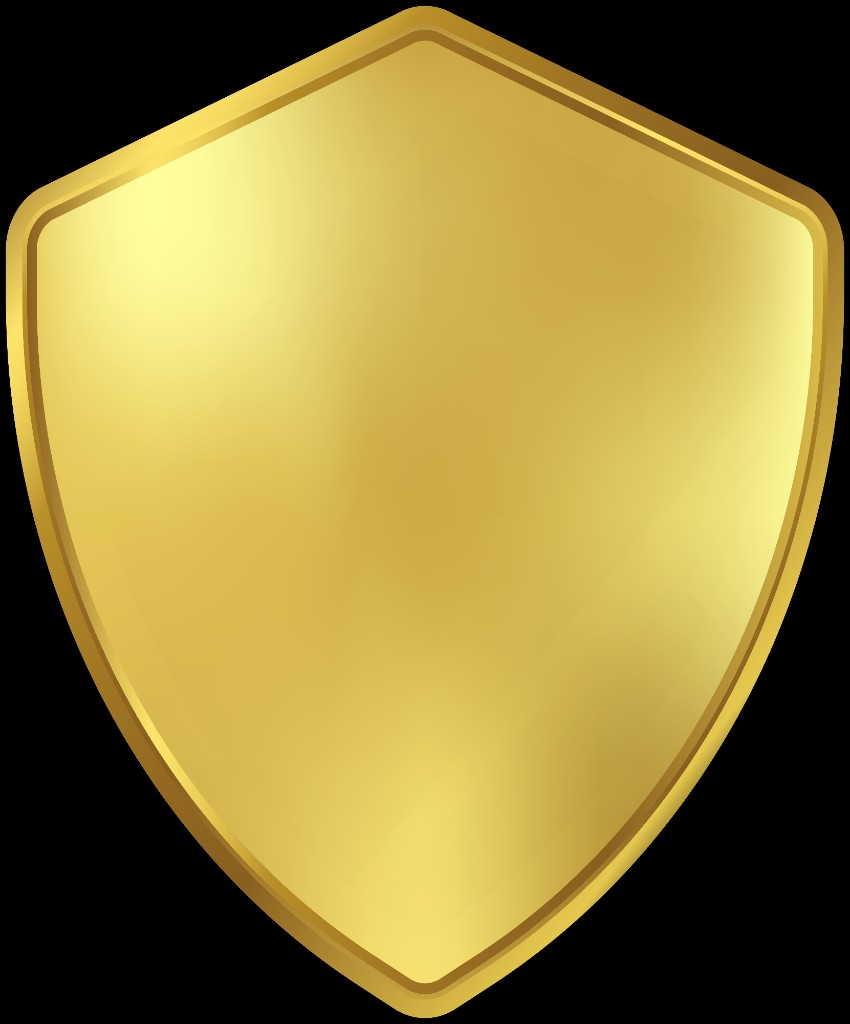
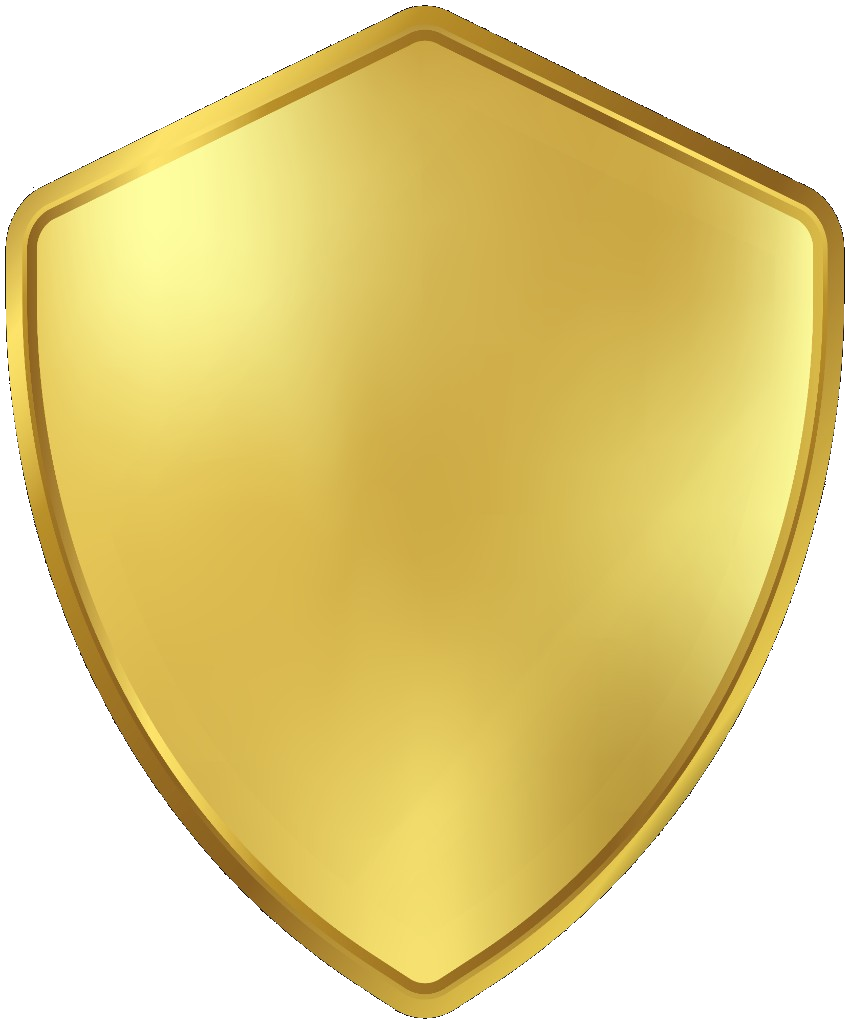
Make topic cards a level-shield brag board kids can read at a glance.
Swap the ★ XP meter for L1–L6 shields, strip the badge’s black background, cover the confusing card lights, and update How to Play to match.

diff --git a/css/topic-campaign-cards.css b/css/topic-campaign-cards.css
@@ -95,10 +95,32 @@ body.mission-mode #screen-home .mission-all-topics .gb-topic-campaign-card .gb-s
   position: relative;
 }
 
+/* Baked into every topic PNG: three green “status” lights on the bottom lip.
+   Cover them with a metal patch in % units so it scales on fullscreen. */
+body.mission-mode #screen-home .mission-all-topics .gb-topic-campaign-card .gb-story-art::before {
+  content: '';
+  position: absolute;
+  left: 50%;
+  bottom: 2.4%;
+  z-index: 2;
+  width: 22%;
+  height: 4.2%;
+  transform: translateX(-50%);
+  border-radius: 2px;
+  background:
+    linear-gradient(180deg, #3a3e42 0%, #23262a 45%, #181a1c 100%);
+  box-shadow:
+    inset 0 1px 0 rgba(255, 255, 255, 0.12),
+    inset 0 -1px 0 rgba(0, 0, 0, 0.55),
+    0 0 0 1px rgba(0, 0, 0, 0.35);
+  pointer-events: none;
+}
+
 body.mission-mode #screen-home .mission-all-topics .gb-topic-campaign-card .gb-story-art::after {
   content: '';
   position: absolute;
   inset: 0;
+  z-index: 1;
   background: linear-gradient(115deg, transparent 35%, rgba(255, 255, 255, .55) 48%, rgba(200, 255, 150, .25) 52%, transparent 65%) no-repeat;
   background-size: 250% 100%;
   background-position: 140% 0;
@@ -115,12 +137,6 @@ body.mission-mode #screen-home .mission-all-topics .gb-topic-campaign-card:not(:
 @keyframes topic-shine {
   0% { opacity: 1; background-position: 140% 0; }
   100% { opacity: 1; background-position: -40% 0; }
-}
-
-body.mission-mode #screen-home .mission-all-topics .gb-topic-campaign-card:not(:disabled):hover .gb-topic-rank,
-body.mission-mode #screen-home .mission-all-topics .gb-topic-campaign-card:not(:disabled):hover .gb-topic-next {
-  color: #eaffd0;
-  text-shadow: 0 0 6px rgba(120, 255, 70, .7);
 }
 
 body.mission-mode #screen-home .mission-all-topics .gb-topic-campaign-card:focus-visible {
@@ -177,113 +193,32 @@ body.mission-mode #screen-home .mission-all-topics .gb-topic-campaign-card .gb-s
   text-shadow: 0 2px 5px #000;
 }
 
-/* Rank, mastery and next XP: one compact row on the black surface, outside the art. */
-body.mission-mode #screen-home .mission-all-topics .gb-topic-campaign-card .gb-topic-campaign-line {
+/* Brag board: six level shields. Soft path = light up L1; flex = fill through L6. */
+body.mission-mode #screen-home .mission-all-topics .gb-topic-campaign-card .gb-topic-shields {
   display: flex;
   position: static;
   width: 100%;
   min-width: 0;
-  height: 26px;
+  height: 28px;
   justify-content: center;
   align-items: center;
-  gap: 6px;
-  padding: 0 5px;
-  background: transparent;
-  white-space: nowrap;
+  gap: 3px;
+  padding: 0 4px 2px;
   pointer-events: none;
 }
 
-/* Rank is hidden at rank 1, then becomes a gold star pill once the topic ranks up. */
-body.mission-mode #screen-home .mission-all-topics .gb-topic-campaign-line[data-rank="1"] .gb-topic-rank {
-  display: none;
+body.mission-mode #screen-home .mission-all-topics .gb-topic-campaign-card .gb-level-shield {
+  width: 20px;
+  height: 24px;
 }
 
-body.mission-mode #screen-home .mission-all-topics .gb-topic-rank {
-  padding: 3px 11px 3px 9px;
-  border: 1px solid #ffe9a8;
-  border-radius: 999px;
-  background: linear-gradient(180deg, #ffd65a, #e09a12);
-  color: #2a1700;
-  font-size: .95rem;
-  font-weight: 800;
-  line-height: 1;
-  box-shadow: 0 0 12px rgba(255, 200, 60, .65), 0 2px 0 #7a4a00;
+body.mission-mode #screen-home .mission-all-topics .gb-topic-campaign-card .gb-level-shield-num {
+  font-size: 0.58rem;
+  padding-top: 1px;
 }
 
-body.mission-mode #screen-home .mission-all-topics .gb-topic-rank strong {
-  color: #2a1700;
-  font-weight: 900;
-  font-variant-numeric: tabular-nums;
-}
-
-body.mission-mode #screen-home .mission-all-topics .gb-topic-mastery {
-  color: #ffe092;
-  font-size: .7rem;
-  font-weight: 800;
-}
-
-/* XP to the next rank only shows on hover or keyboard focus. */
-body.mission-mode #screen-home .mission-all-topics .gb-topic-next {
-  display: none;
-  color: #ded8c7;
-  font-size: clamp(.5rem, .56vw, .65rem);
-  font-weight: 700;
-  font-variant-numeric: tabular-nums;
-}
-
-body.mission-mode #screen-home .mission-all-topics .gb-topic-campaign-card:not(:disabled):hover .gb-topic-next,
-body.mission-mode #screen-home .mission-all-topics .gb-topic-campaign-card:focus-visible .gb-topic-next {
-  display: inline;
-}
-
-body.mission-mode #screen-home .mission-all-topics .gb-topic-rank-track {
-  display: block;
-  width: 100%;
-  height: 2px;
-  margin-bottom: 1px;
-  background: rgba(120, 70, 190, .28);
-  pointer-events: none;
-}
-
-body.mission-mode #screen-home .mission-all-topics .gb-topic-rank-fill {
-  display: block;
-  height: 100%;
-  border-radius: inherit;
-  background: linear-gradient(90deg, #8a3cff, #d14bff 45%, #ff8a1f);
-  box-shadow: 0 0 6px rgba(255, 120, 40, .7), 0 0 10px rgba(170, 70, 255, .45);
-  transition: width .3s ease;
-}
-
-/* The prize: an alien crystal waits at the end of every topic's XP bar, and pulses when close. */
-body.mission-mode #screen-home .mission-all-topics .gb-topic-rank-track {
-  position: relative;
-  height: 4px;
-  border-radius: 2px;
-  overflow: visible;
-}
-
-body.mission-mode #screen-home .mission-all-topics .gb-topic-prize {
-  position: absolute;
-  right: -6px;
-  top: 50%;
-  display: grid;
-  place-items: center;
-  transform: translateY(-50%);
-}
-
-body.mission-mode #screen-home .mission-all-topics .gb-topic-prize .core-gem {
-  --gem-size: 18px;
-  filter: drop-shadow(0 0 3px rgba(80, 255, 170, .7)) grayscale(.35) brightness(.8);
-}
-
-body.mission-mode #screen-home .mission-all-topics .gb-topic-prize.is-close .core-gem {
-  filter: drop-shadow(0 0 8px rgba(120, 255, 190, 1));
-  animation: prize-pulse 1.1s ease-in-out infinite;
-}
-
-@keyframes prize-pulse {
-  0%, 100% { transform: scale(1); }
-  50% { transform: scale(1.35) rotate(8deg); }
+body.mission-mode #screen-home .mission-all-topics .gb-topic-campaign-card .gb-level-shield.is-earned .gb-level-shield-img {
+  filter: drop-shadow(0 0 4px rgba(255, 200, 80, 0.75));
 }
 
 /* Today's hot topic: a flame banner across the top of the card and a warm glow. */
@@ -361,8 +296,6 @@ body.mission-mode #screen-home .mission-all-topics .gb-topic-hot {
 
 @media (prefers-reduced-motion: reduce) {
   body.mission-mode #screen-home .mission-all-topics .gb-topic-campaign-card,
-  body.mission-mode #screen-home .mission-all-topics .gb-topic-rank-fill,
-  body.mission-mode #screen-home .mission-all-topics .gb-topic-prize .core-gem,
   body.mission-mode #screen-home .mission-all-topics .gb-topic-hot {
     transition: none;
     animation: none;

diff --git a/js/home.js b/js/home.js
@@ -9,8 +9,7 @@ import {
   renderInterstellarMap, mapPiecesEarned, getMapPasses, MAP_PASSES_REQUIRED, TRAINING_MODULE_IDS, MAP_SECTORS,
   currentMapSeason, seasonLabel, seasonPiecesEarned, canWarpToDoompickle, homelandMaxLevel, seasonComplete,
 } from './map-progress.js?v=20261115h3';
-import { topicRankProgress, getTopicRecord } from './topic-progression.js?v=20261114k1';
-import { getQualifiedLevels } from './level-mastery.js?v=20261115h3';
+import { getQualifiedLevels, renderModuleLevelPips } from './level-mastery.js?v=20261116xp34';
 import { ECONOMY } from './economy.js';
 import { xpMultiplierLabel, xpMultiplierFor, DIFFICULTY, isDifficultyLevel } from './difficulty.js?v=20261114k1';
 import { renderArmoryPromo } from './armory-promo.js?v=20261113m8';
@@ -21,49 +20,42 @@ import { ENEMY_SPRITE_SRC, GRUNT_STATS, BOSS_STATS } from './enemies-data.js';
 const HOMELAND_URL = 'homeland.html';
 
 /**
- * Ten clean campaign cards. Mastery is a small permanent mark, while each
- * topic's rank and next-rank progress can grow without ever being "Done".
+ * Ten campaign cards. Brag board = level shields (L1–L6) earned with a perfect run
+ * at that difficulty. Soft path = L1 on every topic; flex = fill L2–L6. Topic ★ XP
+ * still accrues in the background but stays off the card so kids see one story.
  * @param {import('./training-gate.js?v=20261114n1').TrainingGate} gate
  * @param {ReturnType<typeof attackStatus>} attack
  * @param {import('./level-mastery.js?v=20261114k1').LevelMasterySave} levelMastery
  * @param {import('./map-progress.js').MapProgressSave} mapProgress
  * @param {string[]} selectedTopics
- * @param {import('./topic-progression.js?v=20261114k1').TopicProgressSave} topicProgress
+ * @param {import('./topic-progression.js?v=20261114k1').TopicProgressSave} [_topicProgress]
  */
-function renderTrainingCards(gate, attack, levelMastery, mapProgress, selectedTopics = MATH_TOPICS.map((t) => t.id), topicProgress = {}) {
+function renderTrainingCards(gate, attack, levelMastery, mapProgress, selectedTopics = MATH_TOPICS.map((t) => t.id), _topicProgress = {}) {
   // Respect the five-by-two screen order, never re-sort by "completion".
   return MATH_TOPICS.filter((topic) => selectedTopics.includes(topic.id))
     .sort((a, b) => selectedTopics.indexOf(a.id) - selectedTopics.indexOf(b.id))
     .map((topic) => {
       const locked = !topic.available;
-      const campaign = topicRankProgress(getTopicRecord(topicProgress, topic.id).xp);
       const qualified = getQualifiedLevels(levelMastery, topic.id);
-      const highestMastery = Math.max(0, ...qualified);
-      const masteryLabel = highestMastery ? `L${highestMastery} ✓` : '';
+      const earned = qualified.length;
       const artClass = `gb-story-art gb-story-art-${topic.id.replace(/[^a-z-]/g, '')}`;
       const hot = !locked && topic.id === hotTopicId();
-      const close = campaign.percent >= 70;
       const art = topic.moduleArt
         ? `<img class="gb-story-art-img" src="${topic.moduleArt}" alt="" width="400" height="400" loading="lazy" />`
         : `<span class="gb-story-art-emoji">${topic.emoji}</span>`;
+      const shieldNote = earned
+        ? `${earned} of 6 level shields earned`
+        : 'no level shields yet — clear a set at 100% to earn one';
       return `
         <button type="button"
           class="gb-story-card gb-topic-campaign-card${locked ? ' gb-story-locked' : ''}${hot ? ' is-hot' : ''}"
           data-topic="${topic.id}"
-          aria-label="${topic.title}${hot ? ', hot topic today, double XP' : ''}, topic rank ${campaign.rank}${highestMastery ? `, Level ${highestMastery} mastered` : ''}. ${campaign.remaining} topic XP to rank ${campaign.nextRank}."
+          aria-label="${topic.title}${hot ? ', hot topic today, double XP' : ''}, ${shieldNote}"
           ${locked ? 'disabled' : ''}>
           <span class="${artClass}" aria-hidden="true">${art}</span>
           ${hot ? '<span class="gb-topic-hot" aria-hidden="true">🔥 HOT TOPIC · 2× XP</span>' : ''}
           ${topic.moduleArt ? '' : `<span class="gb-story-title">${topic.title}</span>`}
-          <span class="gb-topic-campaign-line" data-rank="${campaign.rank}">
-            <span class="gb-topic-rank">★ <strong>${campaign.rank}</strong></span>
-            ${highestMastery ? `<span class="gb-topic-mastery" title="Level ${highestMastery} mastery earned">${masteryLabel}</span>` : ''}
-            <span class="gb-topic-next">NEXT ${campaign.remaining.toLocaleString()} XP</span>
-          </span>
-          <span class="gb-topic-rank-track" aria-hidden="true">
-            <span class="gb-topic-rank-fill" style="width:${campaign.percent}%"></span>
-            <span class="gb-topic-prize${close ? ' is-close' : ''}" title="Rank up for an alien crystal"><span class="core-gem"></span></span>
-          </span>
+          <span class="gb-topic-shields" aria-hidden="true">${renderModuleLevelPips(levelMastery, topic.id)}</span>
         </button>
       `;
     }).join('');

diff --git a/js/how-to-play.js b/js/how-to-play.js
@@ -12,9 +12,9 @@ export const HOW_TO_QUESTIONS = [
     icon: '⚔',
     q: 'How do I start a battle?',
     a: [
-      'Every right answer charges Granny’s defences. You need 20 right answers at Levels 1–2, or 30 at Levels 3–6 — the drill meter, Random Mission count, and Defend Granny button all use that same number. Press RANDOM MISSION for a mix, or tap any topic card.',
-      'Watch the radar: the horde gets closer and bigger as your charge grows. When it says CONTACT, finish your set and press the big button to defend Granny!',
-      'After the bar is full you can keep answering for bonus siege coins, scout zaps, and extra battle time — the war chest shows how much charge you have left to earn.',
+      'Every right answer charges Granny’s defences. You need 20 right answers at Levels 1–2, or 30 at Levels 3–6. Press RANDOM MISSION for a mix, or tap any topic card.',
+      'Watch the invasion strip and the radar as the horde closes in. When defences are charged, hit the red DEFEND GRANNY on the radar whenever you’re ready — you don’t have to finish the set first.',
+      'After the bar is full you can keep answering for bonus siege coins, scout zaps, and extra battle time — Zap Scouts on the war chest is optional.',
     ],
   },
   {
@@ -43,7 +43,6 @@ export const HOW_TO_QUESTIONS = [
       'Fully charge Granny’s defences.',
       'Do a Random mission AND a topic card in the same charge — MIX IT UP!',
       'Score 80% or better on a Maths Quest.',
-      'Rank up a maths topic.',
       'Defeat the first big boss alien in a battle. It drops a crystal!',
     ],
   },
@@ -96,18 +95,19 @@ export const HOW_TO_QUESTIONS = [
     a: SIEGE_RANKS.map((rank) => `${rank.name}: ${rank.hint.toLowerCase()}.`),
   },
   {
-    icon: '⭐',
-    q: 'What are the stars on the topic cards?',
+    icon: '🛡',
+    q: 'What are the shields on the topic cards?',
     a: [
-      'Every topic has its own rank. Correct answers in that topic push its bar along.',
-      'Each new topic rank gives you an Alien Crystal. Every fifth rank also gives bonus Forge XP.',
+      'Each topic shows six shields — one for difficulty Levels 1 to 6.',
+      'Clear that topic at 100% on a level to light its shield. Soft path: earn Level 1 on all ten topics. Bragging rights: fill Levels 2 through 6 as well.',
+      'Random missions don’t count towards shields. Topic drills and Maths Quest do.',
     ],
   },
   {
     icon: '🔥',
     q: 'What is the Hot Topic?',
     a: [
-      'One topic is hot each day. It gives double topic XP, so it ranks up twice as fast.',
+      'One topic is hot each day and pays bonus rewards for right answers.',
       'Come back tomorrow for a new one!',
     ],
   },
@@ -152,7 +152,7 @@ export const HOW_TO_QUESTIONS = [
     icon: '⏱',
     q: 'Can I get more time in a battle?',
     a: [
-      'Yes! Keep answering after the first ten. 15 questions adds 15 seconds, and 20 questions adds 30 seconds.',
+      'Yes! Keep answering after defences are charged. Extra right answers can add bonus siege time and fill the war chest.',
     ],
   },
   {
@@ -162,7 +162,8 @@ export const HOW_TO_QUESTIONS = [
       'Tap ALIEN HOMELAND under your Crystal Vault to see it. Every topic is one sector on the nav chart.',
       `There are three HQ seasons. Season 1 needs ${MAP_PASSES_REQUIRED} passes per topic at ${MAP_SEASONS[0].label}+ to unlock Warp and Doompickle Level 1.`,
       `Come home for Season 2 (${MAP_SEASONS[1].label}+) to open Level 2, then Season 3 (${MAP_SEASONS[2].label}) for Level 3. A miss just means try that drill again — only clean passes count.`,
-      'Get 100% in a topic drill to earn a shield for that level. Random missions don’t count towards the map or shields.',
+      'Doompickle runs are forced Level 1 → 2 → 3 — you can’t pick an easier completed level again once you’ve moved on.',
+      'Random missions don’t count towards the map. Level shields on the topic cards are separate — see “What are the shields on the topic cards?”',
     ],
   },
 ];

diff --git a/js/app.js b/js/app.js
@@ -31,10 +31,10 @@ import { computeStars, badgeSrc } from './stars.js';
 import { computeBragHeadline, computeNextGoal, renderNextGoal } from './progression.js?v=20261112a1';
 import { preloadField, preloadDeployAssets, getFieldImage } from './preload.js?v=20261114t1';
 import { animateResultsStats, animateProgressFill, animateTallyPair } from './tally.js';
-import { renderHome, renderMissionControl, renderInvasionBriefing, renderSiegeStats, stopMissionDossier, renderTopbarBadges, vaultTierFor, showVaultUpgrade, rerollMissionArt, countShieldsEarned, isSpecialMission, SPECIAL_MISSION_XP_MULTIPLIER, showMapPieceFound } from './home.js?v=20261116xp29';
+import { renderHome, renderMissionControl, renderInvasionBriefing, renderSiegeStats, stopMissionDossier, renderTopbarBadges, vaultTierFor, showVaultUpgrade, rerollMissionArt, countShieldsEarned, isSpecialMission, SPECIAL_MISSION_XP_MULTIPLIER, showMapPieceFound } from './home.js?v=20261116xp32';
 import { normalizeEnemyDefeats, recordEnemyDefeat, enemyDefeatCount } from './enemy-tally.js?v=20261112n';
 import { renderPowerCore, pickForgeSquad, pickForgeTitle } from './power-core.js?v=20261114n1';
-import { initHowToPlay } from './how-to-play.js?v=20261115p1';
+import { initHowToPlay } from './how-to-play.js?v=20261116xp35';
 import { showToast, initPopups, openModal, closeModal } from './popups.js';
 import { initTimesTables } from './times-tables.js?v=20261116xp27';
 import { initMeasurementLength } from './measurement-length.js?v=20261116xp1';
@@ -50,7 +50,7 @@ import {
   recordTrainingProgress,
   recommendModuleLevel,
   recommendGlobalLevel,
-} from './level-mastery.js?v=20261115h3';
+} from './level-mastery.js?v=20261116xp34';
 import {
   defaultMapProgress, normalizeMapProgress, allMapPiecesEarned, mapPiecesEarned,
   TRAINING_MODULE_IDS, fillMapSeason, homelandMaxLevel,

diff --git a/js/level-mastery.js b/js/level-mastery.js
@@ -145,7 +145,7 @@ function buildShieldNudge(level, accuracy, shieldEarned) {
 }
 
 /** Shield art for per-module level qualifications. */
-export const LEVEL_SHIELD_SRC = 'assets/badges/level-shield.png';
+export const LEVEL_SHIELD_SRC = 'assets/badges/level-shield.png?v=20261116xp34';
 
 /** @param {LevelMasterySave} mastery @param {string} moduleId */
 export function renderModuleLevelPips(mastery, moduleId) {
@@ -155,7 +155,7 @@ export function renderModuleLevelPips(mastery, moduleId) {
       (n) => `
         <span
           class="gb-level-shield${qualified.has(n) ? ' is-earned' : ''}"
-          title="${qualified.has(n) ? `Perfect at level ${n}` : `Level ${n} — need 100%`}"
+          title="${qualified.has(n) ? `Level ${n} shield earned` : `Level ${n} — clear at 100% to earn`}"
         >
           <img class="gb-level-shield-img" src="${LEVEL_SHIELD_SRC}" width="64" height="72" alt="" aria-hidden="true" />
           <span class="gb-level-shield-num">${n}</span>

diff --git a/index.html b/index.html
@@ -25,7 +25,7 @@
   <link rel="stylesheet" href="css/ten-topic-dashboard.css?v=20261112b3" />
   <link rel="stylesheet" href="css/game-no-instructions.css?v=20261112m" />
   <link rel="stylesheet" href="css/mission-blueprint-stats.css?v=20261112n" />
-  <link rel="stylesheet" href="css/topic-campaign-cards.css?v=20261114q2" />
+  <link rel="stylesheet" href="css/topic-campaign-cards.css?v=20261116xp33" />
   <link rel="stylesheet" href="css/maths-hq-declutter.css?v=20261116inv5" />
   <link rel="stylesheet" href="css/upgrade-cores.css?v=20261115h1" />
   <link rel="stylesheet" href="css/rank-badge.css?v=20261113h3" />
